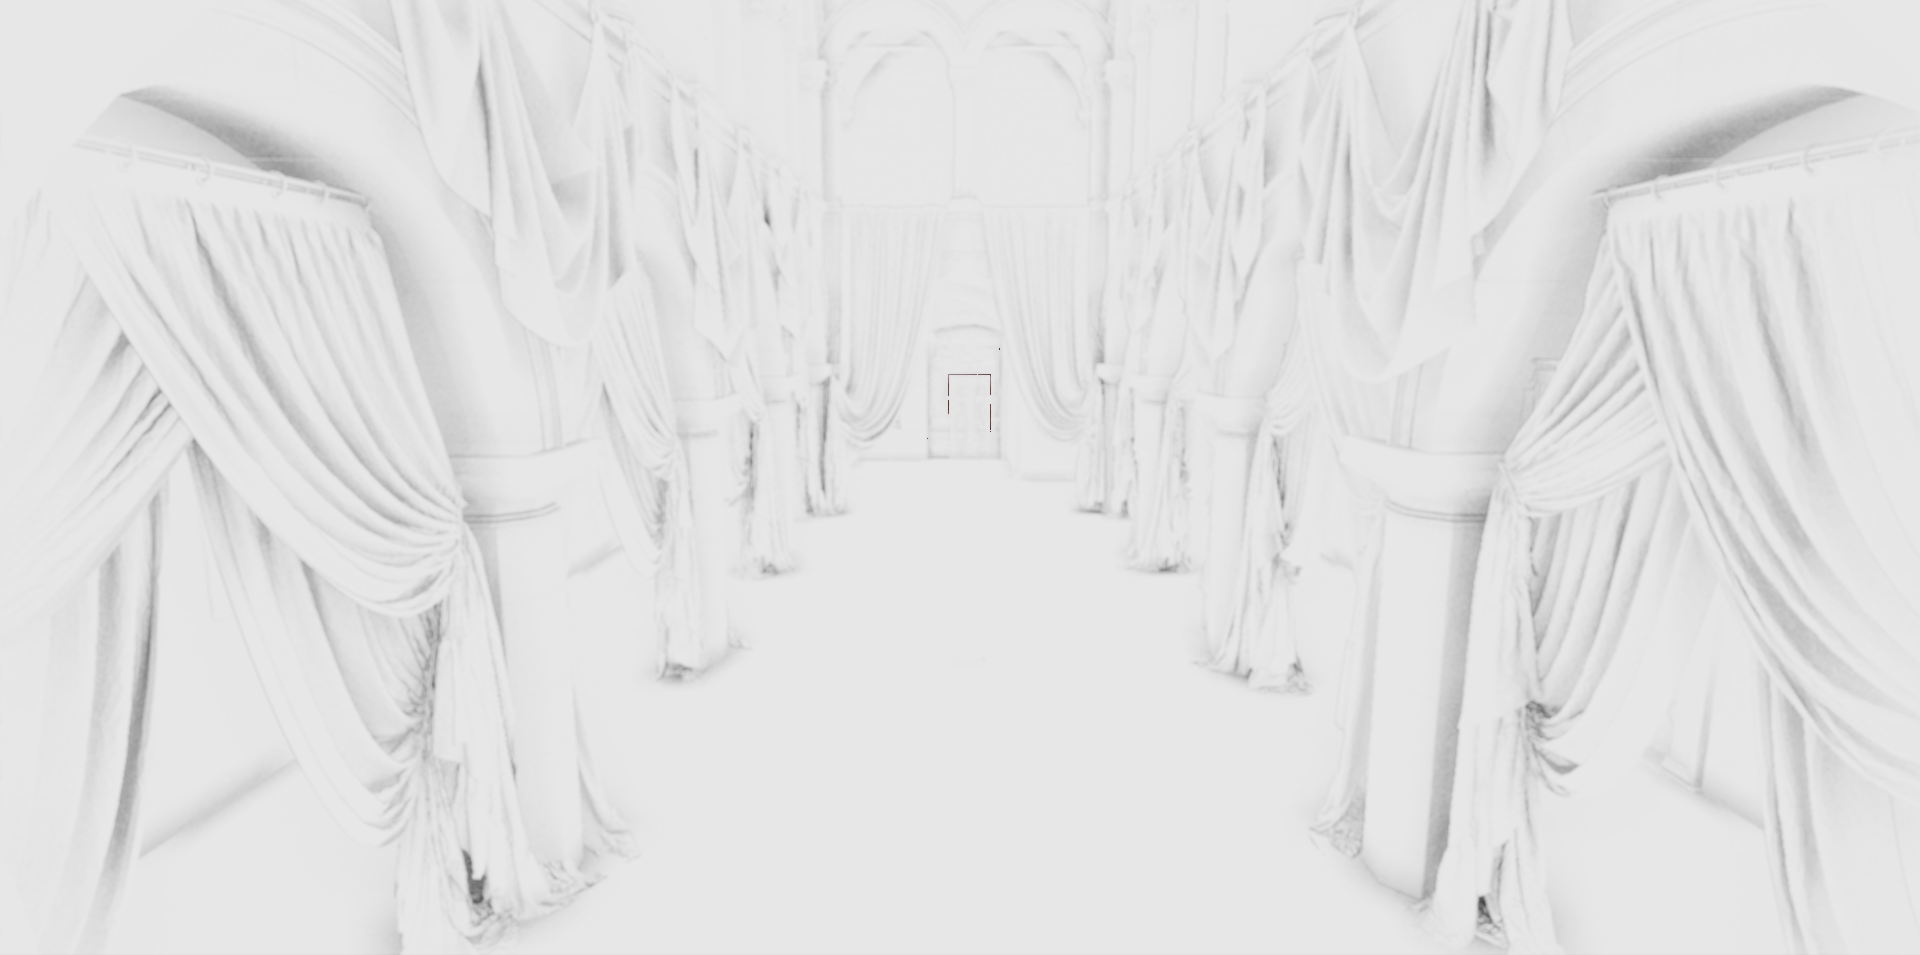
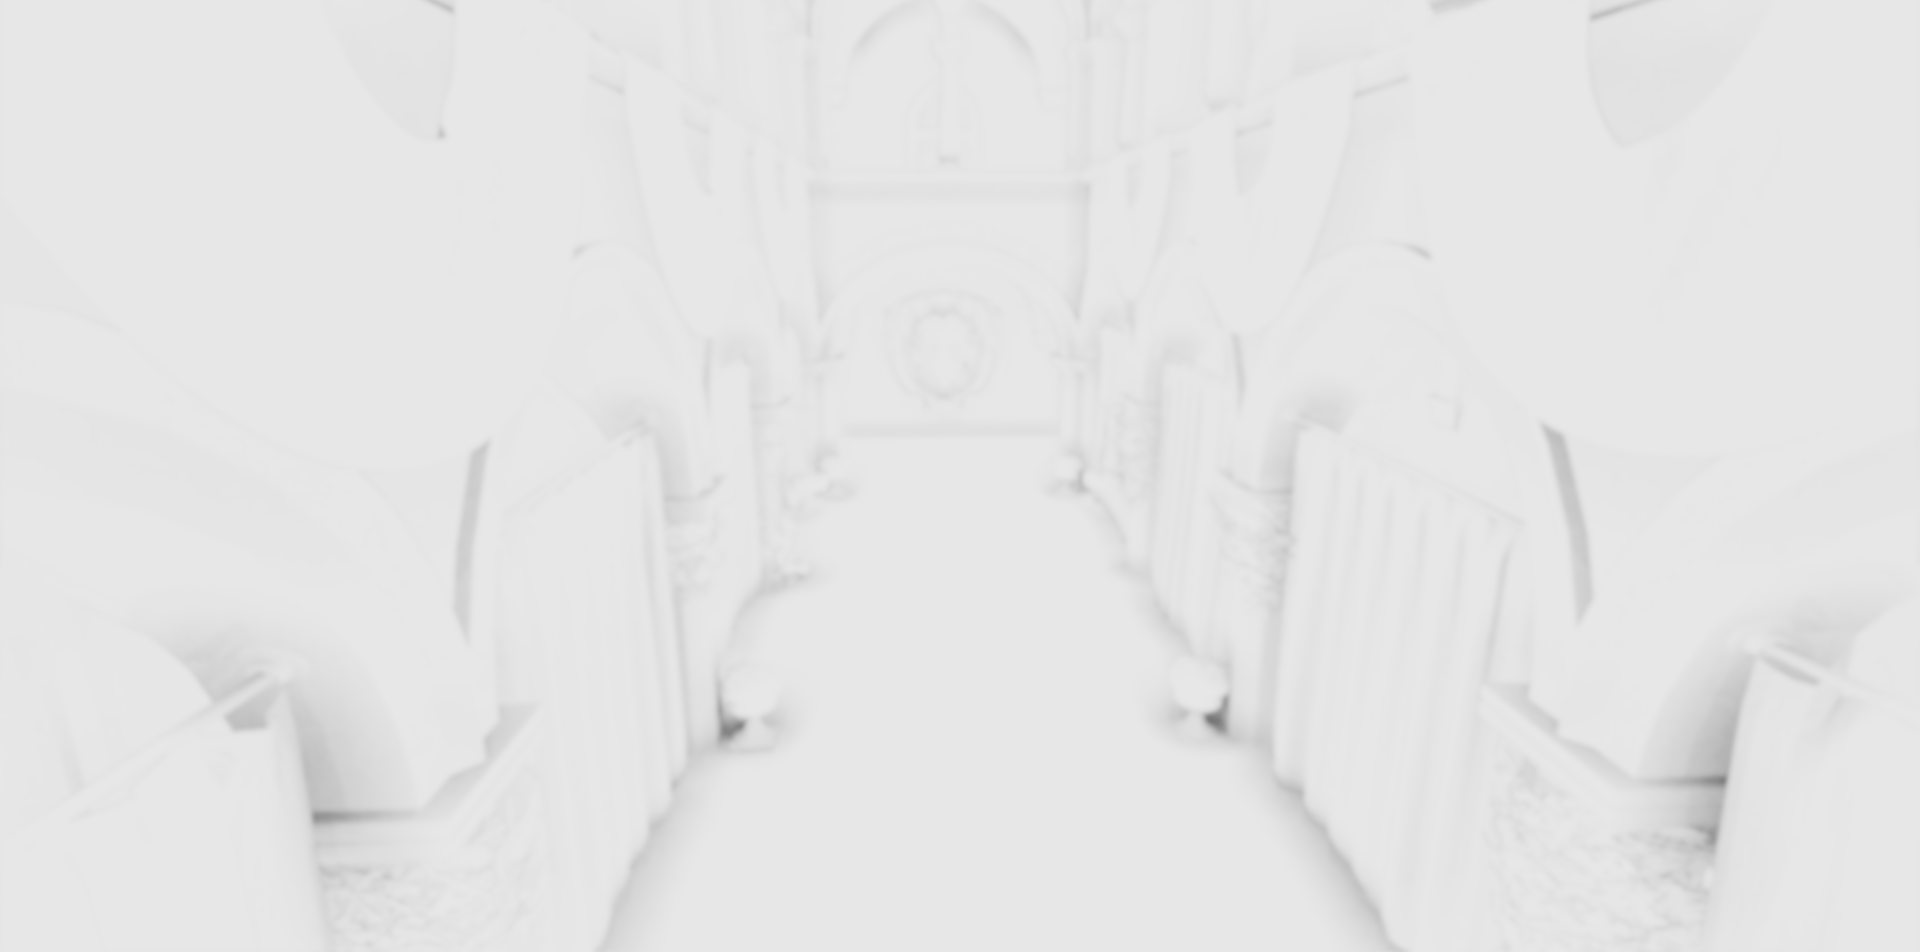
updated readme

diff --git a/README.md b/README.md
@@ -26,9 +26,9 @@
  
 ## Screenshots
 ### Ambient Occlusion
-| RTAO | SSAO |
+| RTAO (Non-Blurred) | SSAO + Gaussian Blur |
 |------|------|
-| ![Multiple Lights](images/rtao.jpg) | ![Multiple Lights](images/ssao.png) |
+| ![Multiple Lights](images/rtao.png) | ![Multiple Lights](images/ssao.png) |
 ### Cascaded Shadow Maps
 | View | Colored Cascades |
 |------|------|
